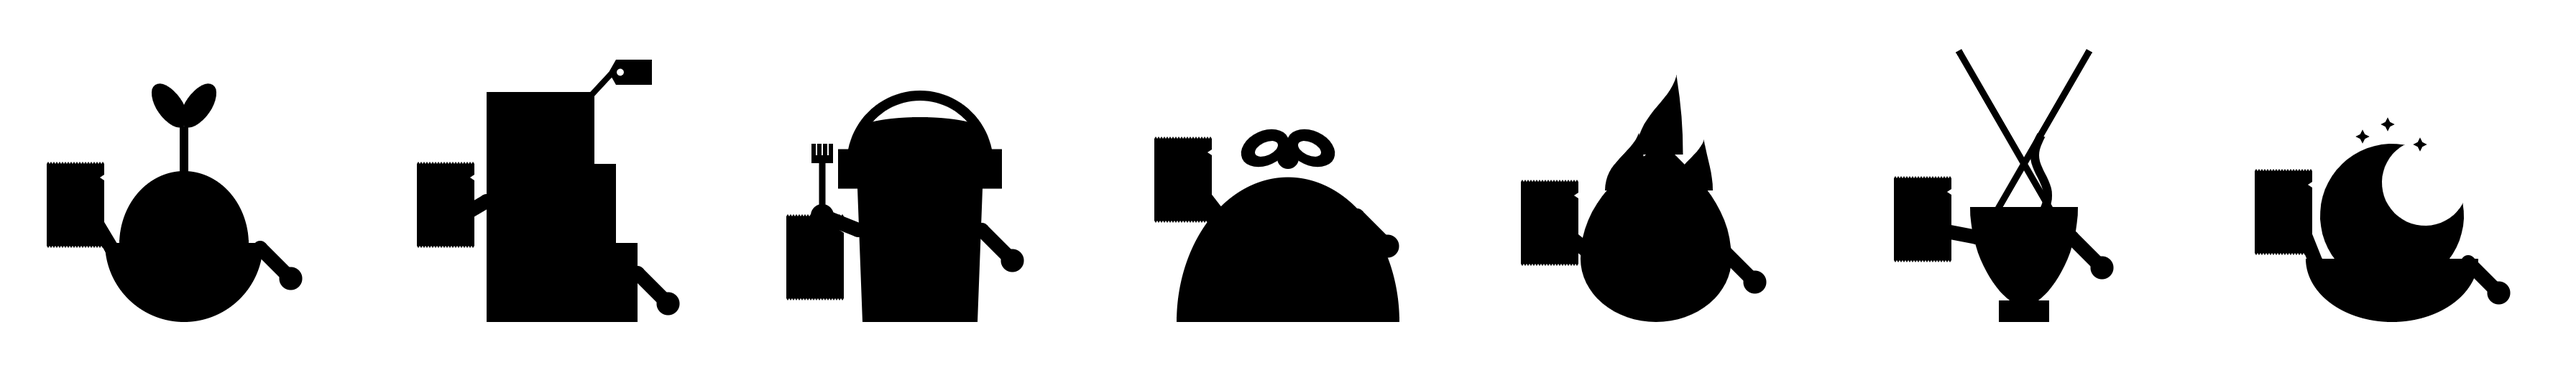
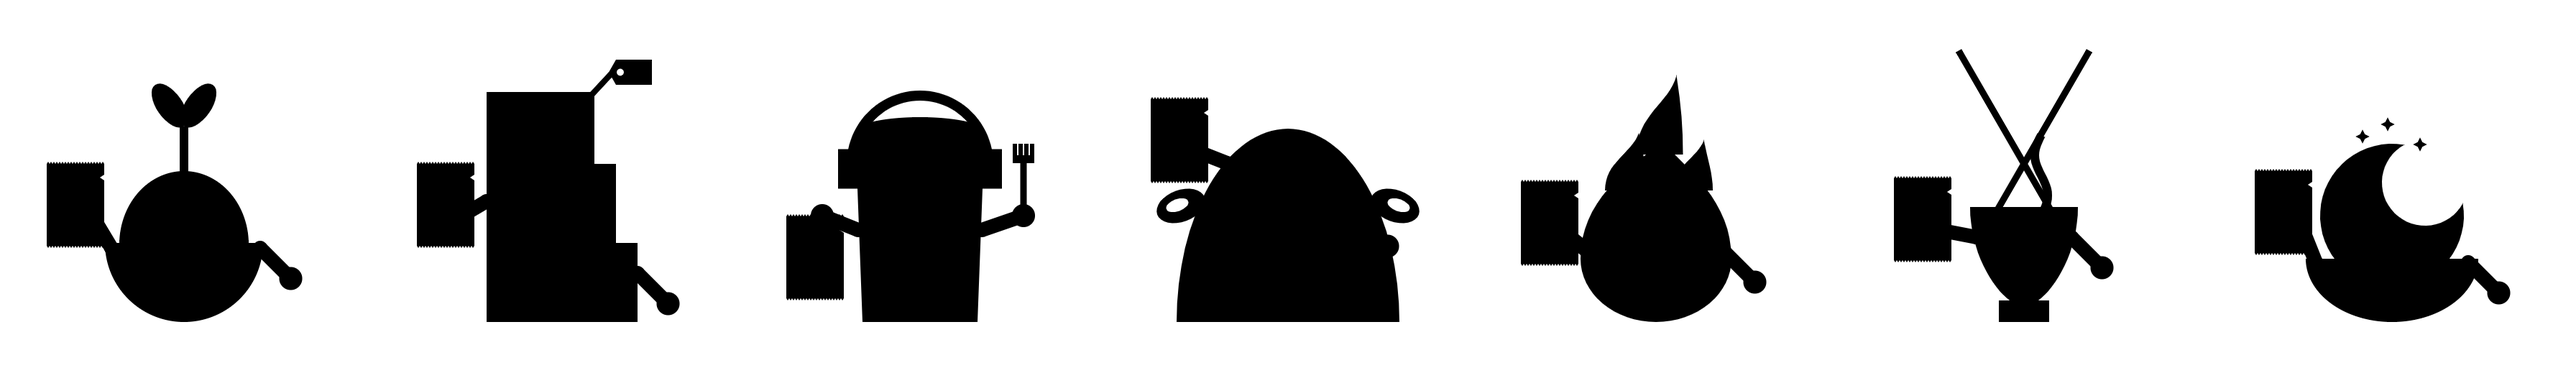
Gate 1 artwork v0.1.1: Cram fork hand, Nest dome, Stack glyph steps
Claude Design redraw against rig-spec v0.1.1:
- Cram: fork upright in grip-l; sachet alone in grip-r.
- Nest: dome 538 x 620 (h:w 0.87), bow loops behind at both sides.
  The sachet was raised to clear the left loop and now rises above the
  dome, so the silhouette check warns: overall 624 vs 538 body target.
- Stack "2": stepped corners restored (first-pass removal was based on
  a QA false positive, since fixed).
Lineup PNGs, key, scale test and generator regenerated.

All seven validators pass (1 warning, explained above).

diff --git a/tools-design/glyph-gen.js b/tools-design/glyph-gen.js
@@ -53,8 +53,8 @@ G.lull=()=>{const cx=160,cy=221,r=98;const wf=a=>{const d=a-320;return Math.abs(
  for(let i=0;i<=32;i++){const t=i/32;tail.push(add([E[0]+(B[0]-E[0])*t,E[1]+(B[1]-E[1])*t],mul(pn,14*Math.sin(2*Math.PI*t))));}
  const nb=bowl.length,ew=wf(390);
  return {strokes:[S(join(bowl,tail),(t,p,i)=>i<nb?wf(160+230*i/(nb-1)):ew+(48-ew)*(i-nb+1)/32,'round'),S(line([50,374],[270,374],16),52,'round')],polys:[circle(E[0],E[1],ew/2-1)]};};
-// 06 Stack: three stacked blocks on the 8-unit grid, stencil gaps 16, square corners, butt
-G.stack=()=>({strokes:[],polys:[poly([[48,80],[272,80],[272,216],[224,216],[224,128],[96,128],[96,192],[48,192]]),poly([[192,232],[272,232],[128,336],[48,336]]),rect(48,352,232,48)]});
+// 06 Stack: three stacked blocks on the 8-unit grid, stencil gaps 16, stepped corners, butt
+G.stack=()=>({strokes:[],polys:[poly([[48,104],[72,104],[72,80],[248,80],[248,104],[272,104],[272,216],[224,216],[224,128],[96,128],[96,192],[48,192]]),poly([[192,232],[272,232],[128,336],[48,336]]),rect(48,352,232,48)]});
 // 07 Mise: high-contrast didone (40 hairline / 104 swell), ball terminal, chopstick-straight base
 G.mise=()=>{const cx=160,cy=194,r=94;const wf=a=>{const d=a-370;return Math.abs(d)<80?40+64*Math.cos(d*Math.PI/160):40;};
  const bowl=arc(cx,cy,r,175,400,72),nb=bowl.length,E=bowl[nb-1],ew=wf(400),diag=qbez(E,[150,300],[60,360],24);

diff --git a/stress-tests/qa/check-silhouettes-report.md b/stress-tests/qa/check-silhouettes-report.md
@@ -4,10 +4,11 @@ Generated by `tools/check-silhouettes.py` on 2026-10-07. Do not edit by hand.
 
 Gate 1 handoff section A. Automated part of the silhouette test; the 10-second naming test is a human review.
 
-**Result: PASS** (33 pass, 0 warn, 0 fail, 3 info)
+**Result: PASS** (32 pass, 1 warn, 0 fail, 3 info)
 
 | Status | Check | Detail |
 |---|---|---|
+| WARN | nest: height vs rig-spec target (+/-8%) | 624 vs 538 rig units (+16.0%) |
 | PASS | SVG canvas 7168 x 1024 | 0 0 7168 1024 |
 | PASS | SVG cell groups in Section 18.5 day order | sprig > stack > cram > nest > riot > mise > lull |
 | PASS | SVG uses black fill only, no strokes | fills ['#000000', '#FFFFFF'], strokes 0 |
@@ -21,10 +22,9 @@ Gate 1 handoff section A. Automated part of the silhouette test; the 10-second n
 | PASS | stack: inside the safe box (128-896) | x 136-868, top y 166 |
 | PASS | cram: height vs rig-spec target (+/-8%) | 644 vs 630 rig units (+2.2%) |
 | PASS | cram: stands on the ground line y=896 | base y = 896 |
-| PASS | cram: inside the safe box (128-896) | x 140-802, top y 252 |
-| PASS | nest: height vs rig-spec target (+/-8%) | 536 vs 538 rig units (-0.4%) |
+| PASS | cram: inside the safe box (128-896) | x 140-832, top y 252 |
 | PASS | nest: stands on the ground line y=896 | base y = 896 |
-| PASS | nest: inside the safe box (128-896) | x 140-822, top y 360 |
+| PASS | nest: inside the safe box (128-896) | x 130-878, top y 272 |
 | PASS | riot: height vs rig-spec target (+/-8%) | 686 vs 691 rig units (-0.7%) |
 | PASS | riot: stands on the ground line y=896 | base y = 896 |
 | PASS | riot: inside the safe box (128-896) | x 136-820, top y 210 |
@@ -37,23 +37,23 @@ Gate 1 handoff section A. Automated part of the silhouette test; the 10-second n
 | PASS | normalised IoU sprig vs riot (top-5 most similar) | 0.70 (limit 0.85) |
 | PASS | normalised IoU stack vs riot (top-5 most similar) | 0.67 (limit 0.85) |
 | PASS | normalised IoU stack vs cram (top-5 most similar) | 0.63 (limit 0.85) |
-| PASS | normalised IoU cram vs riot (top-5 most similar) | 0.58 (limit 0.85) |
 | PASS | normalised IoU sprig vs stack (top-5 most similar) | 0.58 (limit 0.85) |
+| PASS | normalised IoU cram vs nest (top-5 most similar) | 0.57 (limit 0.85) |
 | PASS | all 21 pairs: normalised IoU <= 0.85 | worst sprig/riot 0.70 |
 | PASS | 32px render is 224 x 32 | 224 x 32 |
 | INFO | 32px as rendered: most similar pair (pixel IoU, cell-aligned) | sprig/riot 0.71 |
-| INFO | 32px as rendered: Cram vs Stack (known risk) | 0.63 |
+| INFO | 32px as rendered: Cram vs Stack (known risk) | 0.62 |
 | INFO | human naming test (10 s, 32px PNG, key hidden) | manual: record result in the Gate 1 review |
 
 ## Normalised IoU matrix (equal height, bottom-aligned, centred)
 
 | | sprig | stack | cram | nest | riot | mise | lull |
 |---|---|---|---|---|---|---|---|
-| **sprig** |  | 0.58 | 0.48 | 0.44 | 0.70 | 0.38 | 0.55 |
-| **stack** | 0.58 |  | 0.63 | 0.48 | 0.67 | 0.37 | 0.57 |
-| **cram** | 0.48 | 0.63 |  | 0.55 | 0.58 | 0.31 | 0.51 |
-| **nest** | 0.44 | 0.48 | 0.55 |  | 0.47 | 0.26 | 0.52 |
-| **riot** | 0.70 | 0.67 | 0.58 | 0.47 |  | 0.43 | 0.53 |
-| **mise** | 0.38 | 0.37 | 0.31 | 0.26 | 0.43 |  | 0.33 |
-| **lull** | 0.55 | 0.57 | 0.51 | 0.52 | 0.53 | 0.33 |  |
+| **sprig** |  | 0.58 | 0.46 | 0.44 | 0.70 | 0.38 | 0.55 |
+| **stack** | 0.58 |  | 0.63 | 0.56 | 0.67 | 0.37 | 0.57 |
+| **cram** | 0.46 | 0.63 |  | 0.57 | 0.57 | 0.30 | 0.48 |
+| **nest** | 0.44 | 0.56 | 0.57 |  | 0.53 | 0.28 | 0.56 |
+| **riot** | 0.70 | 0.67 | 0.57 | 0.53 |  | 0.43 | 0.53 |
+| **mise** | 0.38 | 0.37 | 0.30 | 0.28 | 0.43 |  | 0.33 |
+| **lull** | 0.55 | 0.57 | 0.48 | 0.56 | 0.53 | 0.33 |  |
 

diff --git a/stress-tests/silhouette/silhouette-lineup-key.md b/stress-tests/silhouette/silhouette-lineup-key.md
@@ -16,14 +16,18 @@ Order = Section 18.5 day order. Fill `#000000`, background `#FFFFFF`, no strokes
 
 ## Shared family traits (all seven)
 - Ground line y 896, every base sits on it.
-- Arms: 40-unit capsule from shoulder, 32-radius hand. Mascot-left arm always drops 85/85 units down-out.
-- Sachet: brand geometry 160 × 240, 8-unit crimp teeth top and bottom, 16 × 12 tear notch 24 below the top crimp, held in `grip-r` (screen-left in front view).
+- Arms: 40-unit capsule from the shoulder, 32-radius hand.
+- Sachet: brand geometry 160 × 240, 8-unit crimp teeth top and bottom, 16 × 12 tear notch 24 below the top crimp, held alone in `grip-r` (screen-left in front view).
 
-## Interpretations to confirm (spec conflicts or gaps)
-1. **Cram, fork + sachet both in grip-r.** rig-spec §7 puts the fork in grip-r and the handoff puts the sachet there too. Here the hand holds the sachet by its top crimp, with the fork rising 220 above the hand. If you want the fork in grip-l, it would read more clearly. Needs a decision.
-2. **Cram headphone arc r 190** (−5%, within tolerance). This keeps a gap between the earcup and the fork head at 32px.
-3. **Sprig head dome rx 180 / ry 200, stem 125.** Bowl 220 + stem 120 + 35° leaves (140 × 70) only adds up to 660 if the dome is this tall.
-4. **Nest bows above the dome.** A dome with h:w 0.65 (403 tall) plus loops 120 wide only reaches 538 if the loops rise above the dome top. The loops have punched counters.
-5. **Lull crescent notch:** circle 0.6r (120), centre 0.65r (130) from the head centre at 45° up-right. Read literally as a 0.35r offset, the notch circle would sit fully inside the head and become a hole, not a bite. Stars are Ø39 (+8%, the edge-case allowance) with fat 4-point cores so they survive at 32px.
-6. **Mise chopsticks** are 520 long at 30° from vertical and cross 120 above the rim, 30% of the way up each stick. The tops reach y 141 (height 755, −2%).
-7. **Stack**'s steps are only 60 units each (fixed by the block widths). At 32px the price-tag flag carries most of the difference from Cram, and the steps are second. This is the pair to test first.
+## Rig spec v0.1.1 changes applied
+- **Cram:** fork (220 tall, upright) moved to `grip-l`, hand raised to (800, 600) so the fork clears the earcup. The sachet hangs alone from `grip-r`.
+- **Nest:** dome h:w 0.87 (538 × 620). The 120-wide bow loops sit behind the dome and show at both sides at 60% height (y 573), with punched counters. Nothing sits on top. The sachet is raised to clear the left loop.
+- **Lull:** unchanged (notch 0.6r centred 0.65r at 45° up-right, now in the spec).
+
+## Remaining notes
+1. **Cram headphone arc r 190** (−5%, within tolerance).
+2. **Sprig head dome rx 180 / ry 200, stem 125.** Needed to reach 660 with the §7 leaf numbers.
+3. **Lull stars** Ø39 (+8%) with fat 4-point cores.
+4. **Mise chopsticks** cross 30% up each stick; the tops reach y 141.
+5. **Cram vs Stack:** Stack's steps are 60 units. At 32px the price-tag flag carries most of the difference, and Cram's fork now sits on the opposite side to Stack's tag.
+6. **Nest at 32px:** the side loops read as small ears on the dome. If they get lost in the test, the +8% allowance takes them to 130 wide.

diff --git a/stress-tests/qa/check-glyphs-report.md b/stress-tests/qa/check-glyphs-report.md
@@ -54,7 +54,7 @@ Gate 1 handoff section B. Measures each persona '2' against `brand.two-mark`. Ra
 | PASS | stack: no script/image/text (outlined paths only) |  |
 | PASS | stack: fills are role.text / role.bg only | ['#14213D'] vs text #14213D, bg #F5EBD7 |
 | PASS | stack: cap height = 80% of box (y 80-400) | ink y 80-400 (cap 320 / 400 = 80%) |
-| PASS | stack: no stroke thinner than 40 units (12.5% of cap height) | largest sub-minimum stroke region ~12 units thick, 0.11 x disk area (limit 0.5); opening loses 5.8% of ink |
+| PASS | stack: no stroke thinner than 40 units (12.5% of cap height) | largest sub-minimum stroke region ~12 units thick, 0.11 x disk area (limit 0.5); opening loses 6.6% of ink |
 | PASS | stack: open counter >= 25% of ink width | 117 units vs 58 needed (ink width 232) |
 | PASS | mise: viewBox is the 1:1.25 construction box | 0 0 320 400 |
 | PASS | mise: group id mise__foreground-type__two-mark |  |
@@ -86,5 +86,5 @@ Gate 1 handoff section B. Measures each persona '2' against `brand.two-mark`. Ra
 | Nest | 320 | 0.2% | 0.01 | ~4 | 0.00 | 140 | 64 |
 | Sprig | 322 | 0.8% | 0.01 | ~4 | 0.20 | 136 | 73 |
 | Lull | 320 | 0.5% | 0.06 | ~11 | 0.00 | 101 | 70 |
-| Stack | 320 | 5.8% | 0.11 | ~12 | 0.63 | 117 | 58 |
+| Stack | 320 | 6.6% | 0.11 | ~12 | 0.63 | 117 | 58 |
 | Mise | 320 | 0.6% | 0.11 | ~12 | 0.01 | 108 | 72 |

diff --git a/stress-tests/qa/summary.md b/stress-tests/qa/summary.md
@@ -9,5 +9,5 @@ Generated by `tools/run-all.py` on 2026-10-07.
 | Colour-blind simulation | `tools/check-cvd.py` | PASS | 35 | 2 | 0 | 21 | [report](check-cvd-report.md) |
 | File naming + folder structure | `tools/check-names.py` | PASS | 73 | 0 | 0 | 1 | [report](check-names-report.md) |
 | Rig spec | `tools/check-rig.py` | PASS | 48 | 0 | 0 | 1 | [report](check-rig-report.md) |
-| Silhouette lineup (Gate 1 A) | `tools/check-silhouettes.py` | PASS | 33 | 0 | 0 | 3 | [report](check-silhouettes-report.md) |
+| Silhouette lineup (Gate 1 A) | `tools/check-silhouettes.py` | PASS | 32 | 1 | 0 | 3 | [report](check-silhouettes-report.md) |
 | '2' glyphs (Gate 1 B) | `tools/check-glyphs.py` | PASS | 58 | 0 | 0 | 10 | [report](check-glyphs-report.md) |
